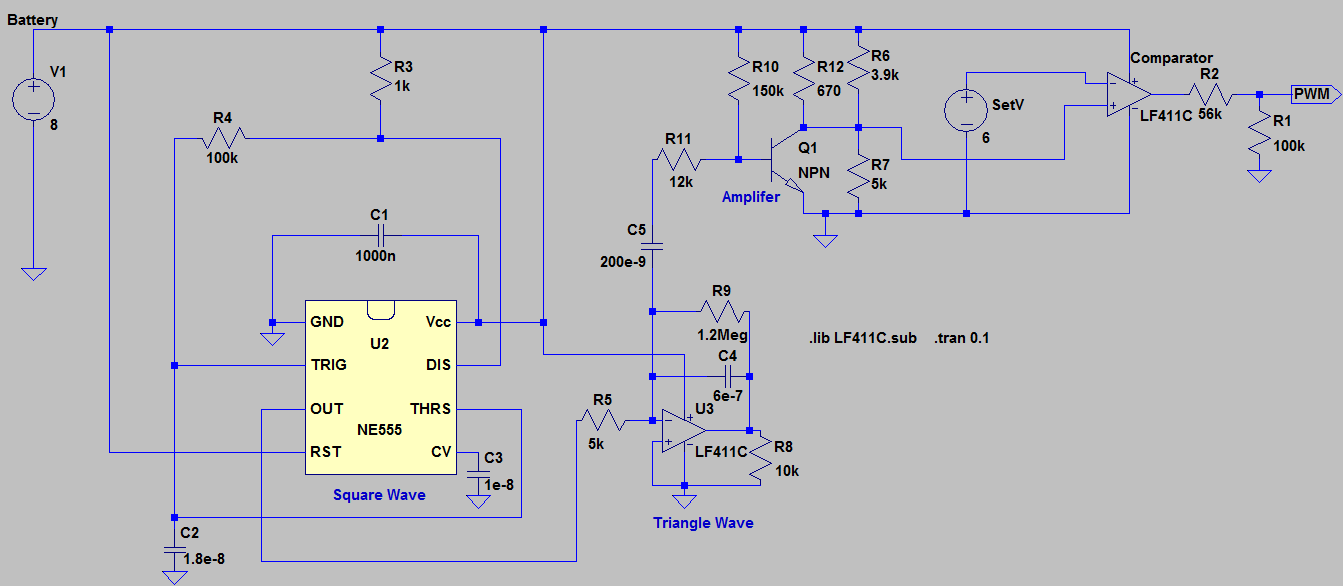
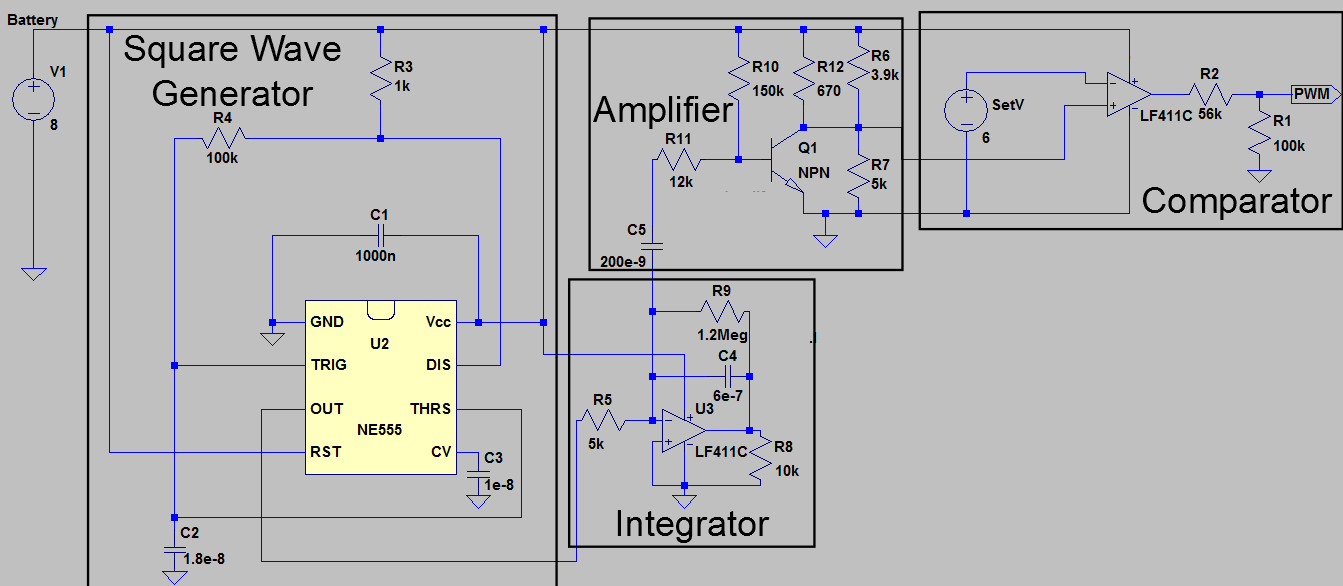
Final Edits

diff --git a/Analog Electronics Final Project Report.tex b/Analog Electronics Final Project Report.tex
@@ -37,7 +37,7 @@
 \usepackage{epstopdf} % for including EPS files
 \usepackage{lpic}
 \usepackage{pdfpages}
-
+\usepackage{hyperref}
 
 % These packages are all incorporated in the memoir class to one degree or another...
 
@@ -81,22 +81,20 @@ The goal of this project is to create an analog circuit that can process the out
 \input{CTRL}
 
 \section{Motor Control}
-%TODO Split diagram into modules with corresponding diagrams
-%TODO cite forum post
-To control the motors, it is first necessary to understand them. Quadcopters no longer use simple DC motors to control their speed, as they are not precise enough for the balancing and motion required. Instead, they use what is known as three-phase AC signals. Each AC signal is $120\deg$ out of phase with each other, to trigger one of three electromagnet in the motor. The frequency determines the rpm, which is precisely controlled by an electronic speed controller (ESC). This ESC measures the back emf of the first two poles to determine the phase shift of the third pulse.
+To control the motors, it is first necessary to understand them. Quadcopters no longer use simple DC motors to control their speed, as they are not responsive enough for the balancing and motion required~\cite{forum}. Instead, they use what is known as three-phase AC signals. Each AC signal is $120\deg$ out of phase with each other, to trigger one of three electromagnet in the motor. The frequency determines the rpm, which is precisely controlled by an electronic speed controller (ESC). This ESC measures the back emf of the first two poles to determine the phase shift of the third pulse.
 
 The ESC in turn is controlled by a 400\,Hz pulse width modulated (PWM) square wave from a central control system, such as a micro-controller or an analog circuit. The throttle it applies to the motors is controlled by the duty cycle of the wave, which can be simply generated by using a triangle wave and a comparator.
 
-By comparing the output of the triangle wave to a set voltage, the resultant signal will either go to zero or the upper rail, with the width of the pulse equaling the width of the triangle wave that is above the set voltage. This the duty cycle of the square wave can be controlled simply by adjusting the set voltage of the comparator.
+By comparing the output of the triangle wave to a set voltage, the resultant signal will either go to zero or the upper rail, with the width of the pulse equaling the width of the triangle wave that is above the set voltage. Thus the duty cycle of the square wave can be controlled simply by adjusting the set voltage of the comparator.
 
 \begin{figure}[h]
 	\centering
 	\includegraphics[width=\textwidth]{MotorControl}
-	\caption{Schematic of PWM Circuit, consisting of a triangle wave generator, a set voltage, an opamp acting as a comparator, and a voltage divider.}
+	\caption{Schematic of PWM Circuit, consisting of a square wave generator, an integrator to make a triangle wave, an amplifier, and a comparator to create the PWM signal.}
 	\label{fig:MotorControl}
 \end{figure}
 
-Figure~\ref{fig:MotorControl} shows the required circuit to accurately create the PWM signal. Testing the comparator circuit revealed that setting the compared voltage to be between 2.4\,V and 6\,V results in a duty cycle between 25\% to 65\%. The triangle wave itself needed to have a 5V peak to peak amplitude with an additional 2V offset. To generate this signal without a signal generator, a 555 timer is used to create an initial 400\,Hz square wave, which is then integrated with a 411 opamp into a triangle wave. This wave is then amplified to 5\,V, with the DC offset added at the end via a voltage divider. The simulated final result from LTSpice is shown in Figure~\ref{fig:PWM}.
+Figure~\ref{fig:MotorControl} shows the required circuit to accurately create the PWM signal, with each major module highlighted. Testing the comparator circuit revealed that setting the compared voltage to be between 2.4\,V and 6\,V results in a duty cycle between 25\% to 65\%. The triangle wave itself needed to have a 5V peak to peak amplitude with an additional 2V offset. To generate this signal without a signal generator, a 555 timer is used to create an initial 400\,Hz square wave, which is then integrated with a 411 opamp into a triangle wave. This wave is then amplified to 5\,V, with the DC offset added at the end via a voltage divider. The simulated final result from LTSpice is shown in Figure~\ref{fig:PWM}.
 
 \begin{figure}[h]
 	\centering
@@ -134,11 +132,9 @@ The only parts that have an exact mechanical requirement are the motors, which h
 Each arm has room for the motor to be mounted, along with space for the corresponding ESC to be mounted underneath with zip ties. Each arm locks into the central body, and is secured using an M5 bolt. The top section has holes to allow zip ties to wrap around the inner section to hold down the central electronics. Finally the bottom of the central piece has an additional hollowed section to more zip ties to hold the battery underneath, keeping the center of gravity low.
 
 \section{Feedback}
-%TODO Both parties to add details
 The feedback mechanism in this system is not strictly electrical, but related through the orientation of the copter. The motors represent the final output stage of the control circuit, which will affect the orientation of the quadcopter. This in turn affects the output voltages of the accelerometer, which represent the inputs of the control circuit. Thus to properly describe the feedback of this circuit, it is important to understand how much thrust the motors supply, and how that force twists the orientation of the quadcopter. In order to do this, the thrust must be characterized as a function of voltage, which is described in the appendix of this report. 
 
 \section{Problems and Issues}
-%TODO Consider adding more issues
 This project ran into a lot of setbacks, mostly logistical but also due to poor planning. The initial concept of this project assumed that the quadcopter motors we would buy were simply DC motors, as opposed to three-phase AC motors. DC motors would have required a much simpler design, and proven more feasible for a project of this scope. Instead we were forced to redo our entire design to account for our quadcopter motors.
 
 After some experimentation in building the requisite three-phase AC circuit and consultation with online forums, we realized not only would this insufficient, but that we could not power the motors without a minimum of 8\,A, well beyond the capabilities of the power supplies provided. This required us to put in a second order for an appropriate battery and a set of motor controllers.
@@ -157,7 +153,16 @@ Moving forward, the obvious first step is to make sure the motors turn on, and t
 Once all the relevant information is collected, we can proceed with assembling the full circuit. We will start with powering the low current system (as opposed to the high current motors) with a power supply, but eventually transition to powering it with single cell batteries. The entire low current system will be supplied with 9\,V this way, with the motors using a specially made 11\,V battery designed for quadcopters. Since the chassis is already complete, all that would remain is to attach all the leads and test the system.
 
 As stretch goals once balancing has been confirmed, we will also test the ability to move the quadcopter with varying voltage inputs to the control circuit, as well as adding RF capability to make the quadcopter truly capable of independent movement.
-%TODO summarize current state of project, and how we feel gloing forward.
+
+\begin{thebibliography}{1}
+
+\bibitem{forum}
+  Phantompilots.com, 
+  \emph{Driving Phantom 2 2212 motor with Analog circuit.}, 
+  \url{http://www.phantompilots.com/viewtopic.php?f=4&t=30596&p=27994}
+  [Accessed December 2014].
+
+\end{thebibliography}
 \newpage
 \appendix
 \section{Appendix A: Characterizing Motors}
